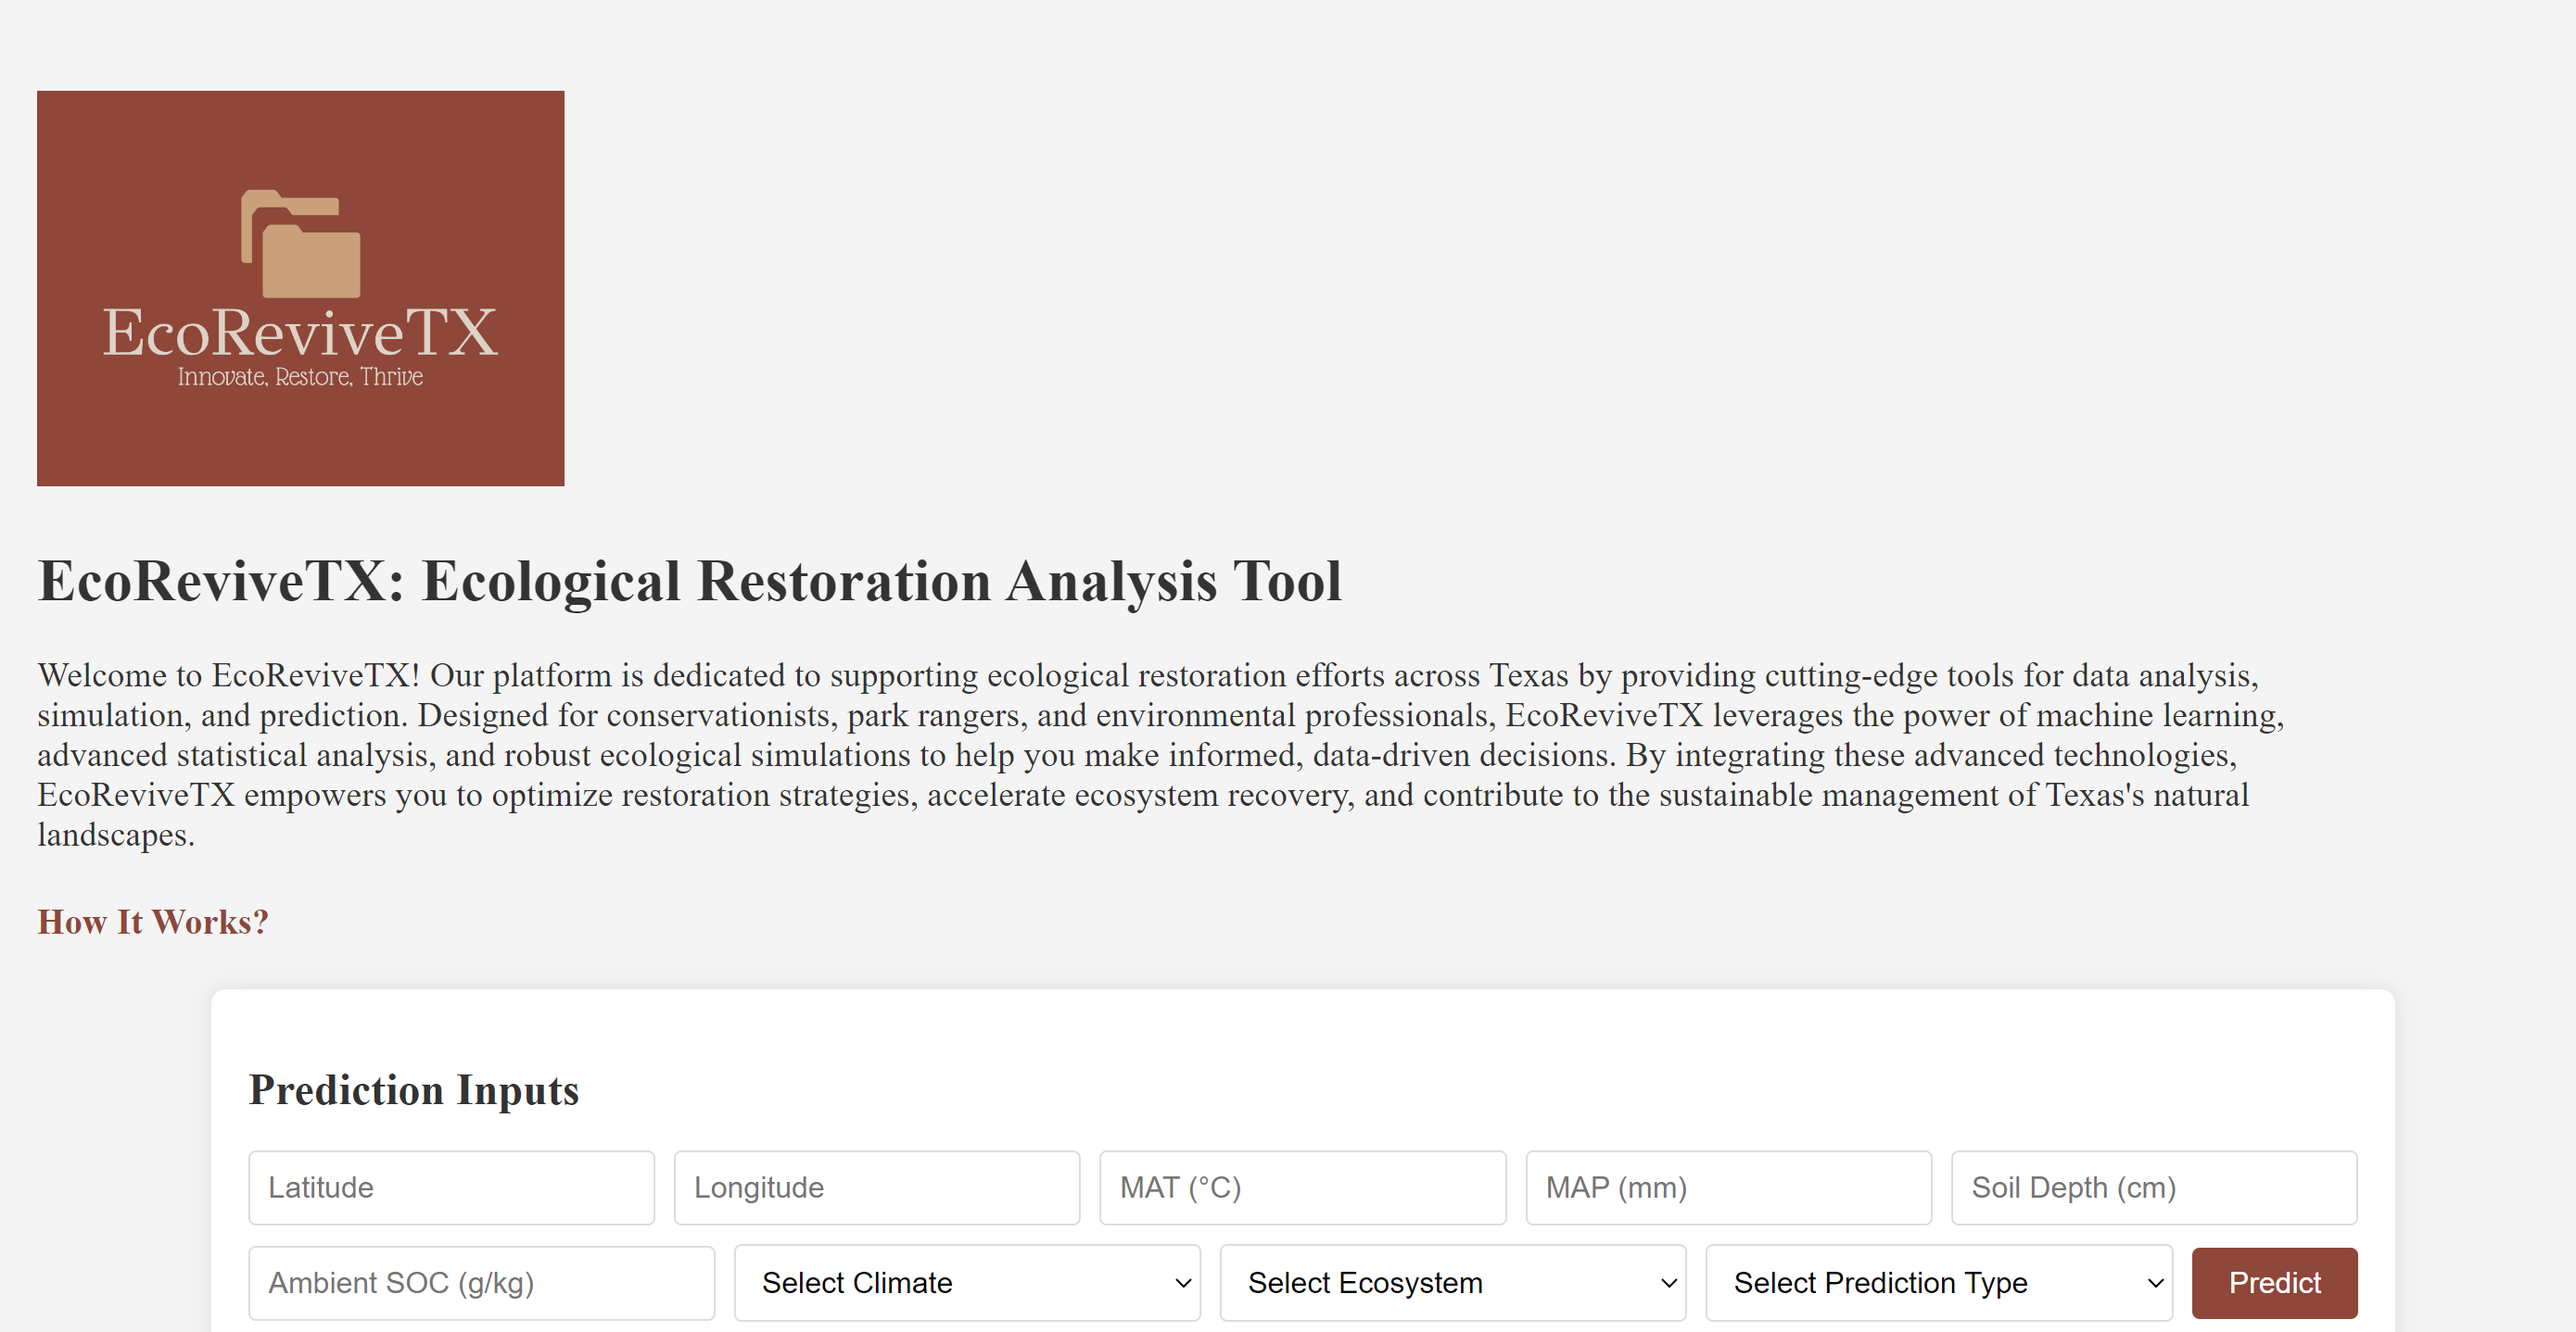
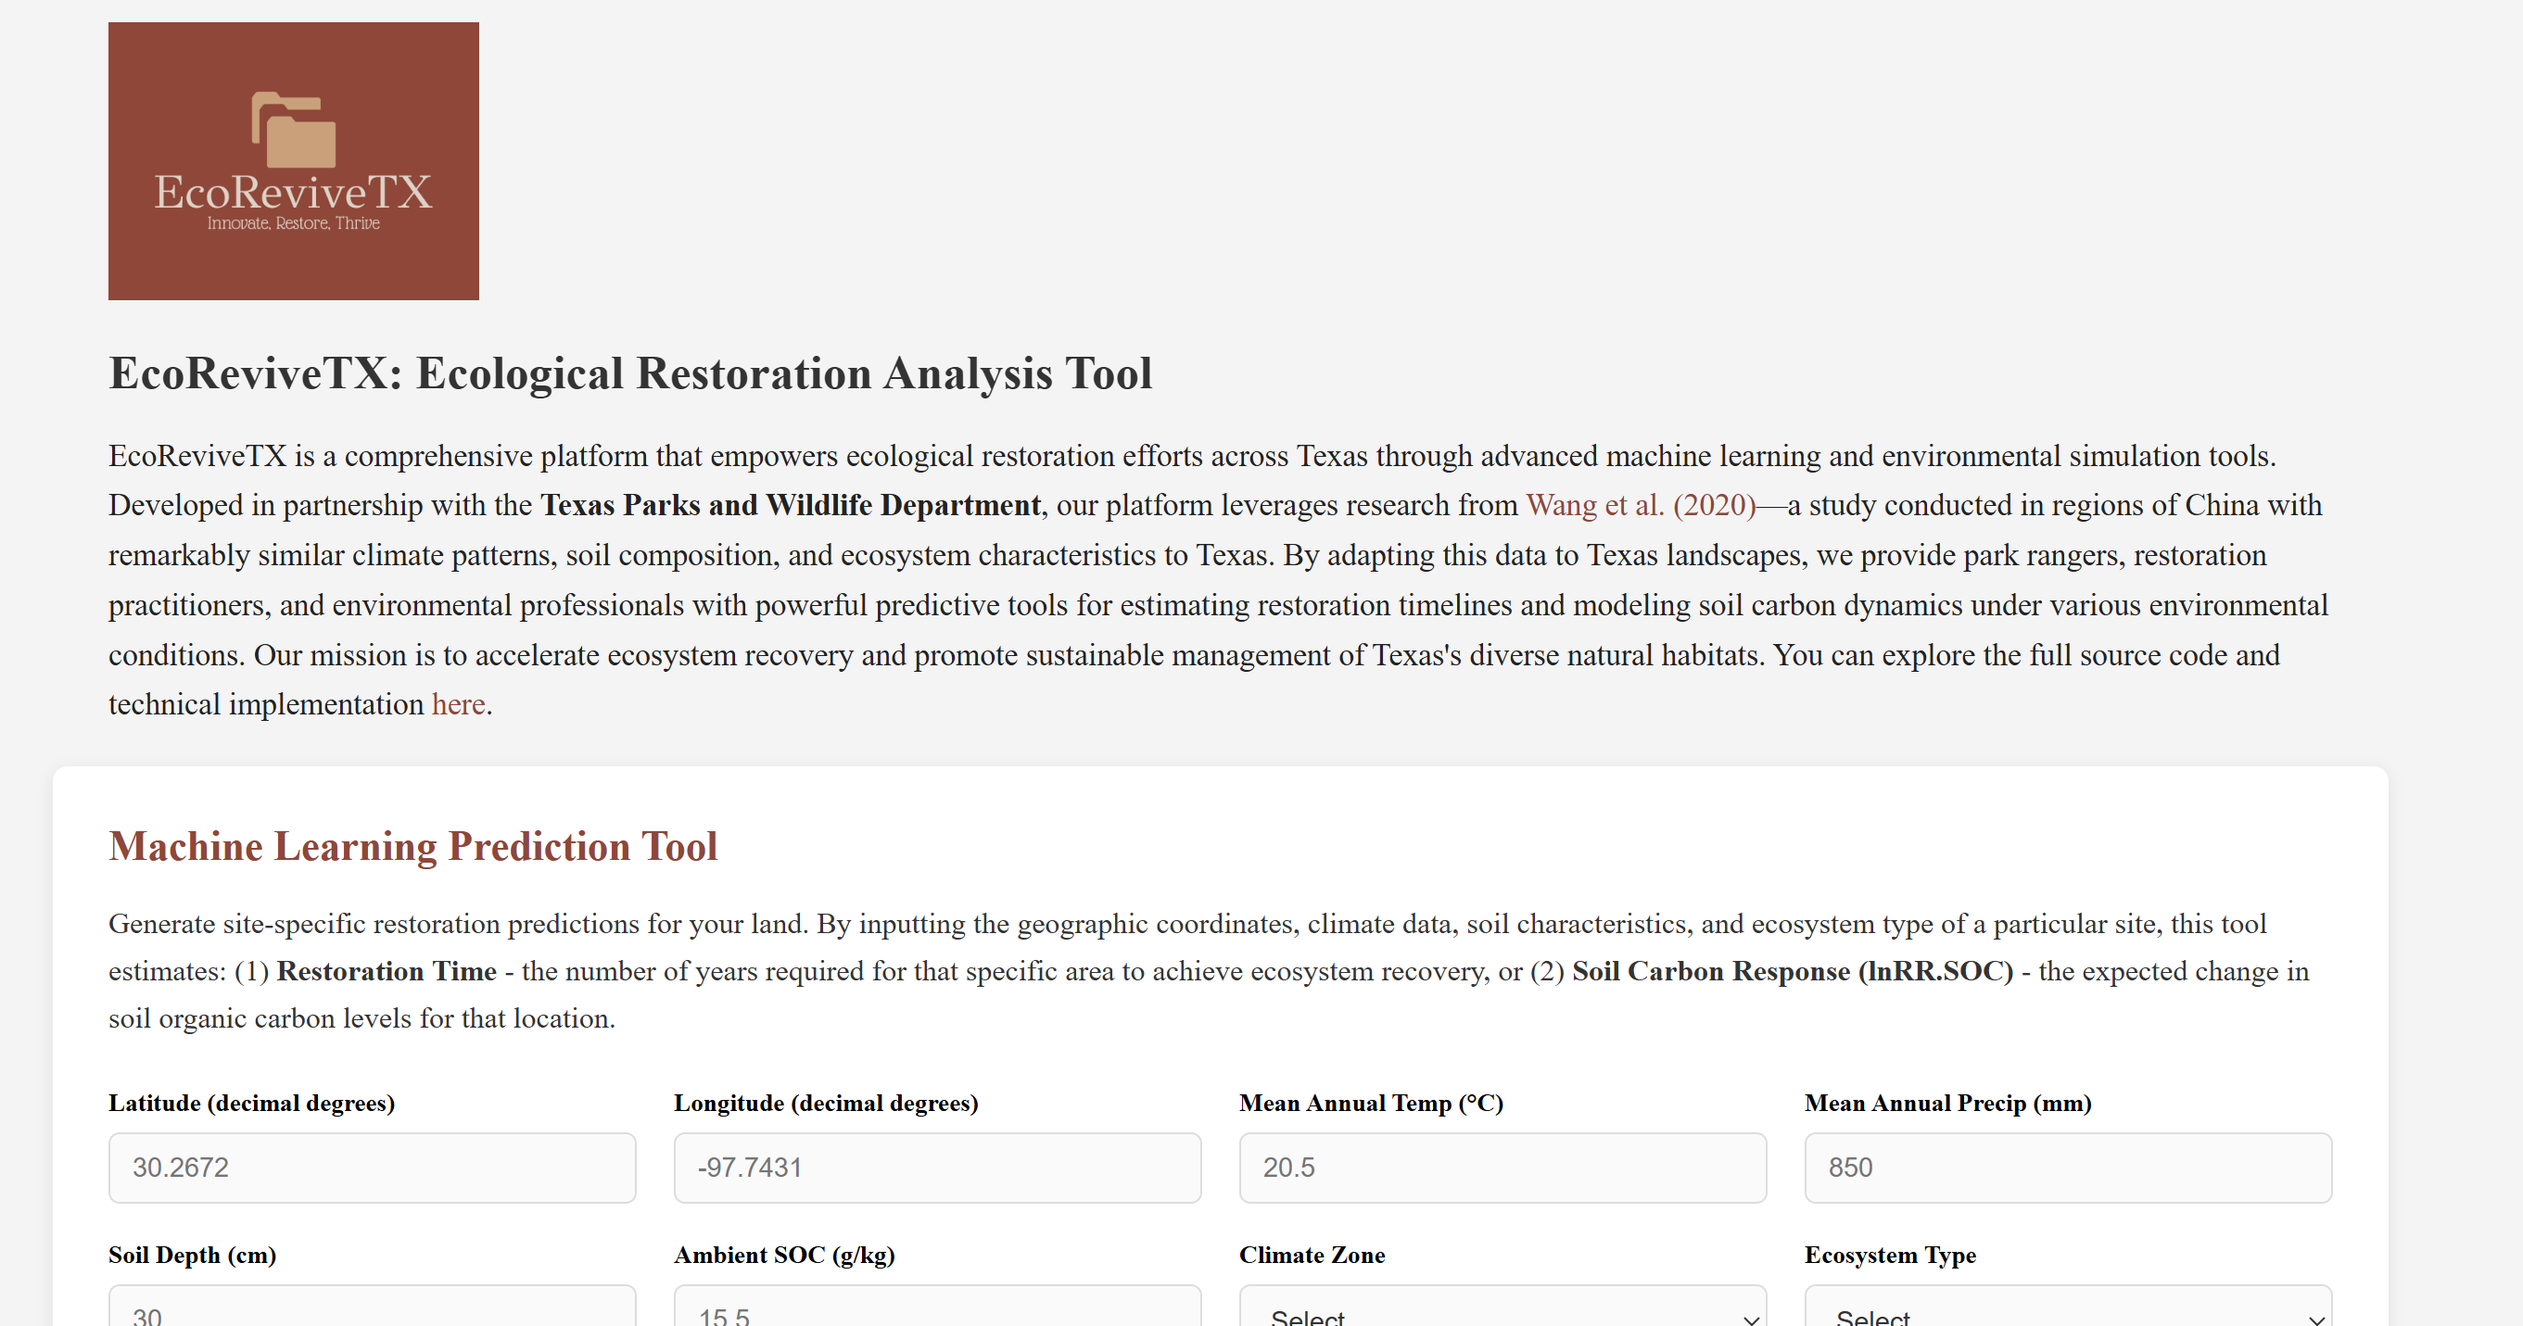
small changes

diff --git a/templates/index.html b/templates/index.html
@@ -149,6 +149,7 @@
             // Handle prediction form submission
             $('#prediction-form').submit(function(event) {
                 event.preventDefault();
+                const predictionType = $('#pred-type').val();
                 $('#prediction-result').show();
                 $('#prediction-result .result-content').html('<p class="loading">Generating prediction...</p>');
                 
@@ -169,6 +170,9 @@
 
                         if (response.error) {
                             $('#prediction-result .result-content').html('<p class="error">Error: ' + response.error + '</p>');
+                        } else if (typeof response.prediction === 'number') {
+                            let unit = predictionType === 'time' ? ' years' : ' lnRR.SOC';
+                            $('#prediction-result .result-content').html('<p class="result-value">' + response.prediction.toFixed(2) + unit + '</p>');
                         } else {
                             $('#prediction-result .result-content').html('<p class="result-value">' + response.prediction + '</p>');
                         }

diff --git a/static/styles.css b/static/styles.css
@@ -74,7 +74,7 @@ a:hover {
 .input-wrapper {
     flex: 1;
     min-width: 180px;
-    max-width: calc(25% - 15px);
+    max-width: calc(33.33% - 15px);
     display: flex;
     flex-direction: column;
 }

diff --git a/README.md b/README.md
@@ -2,11 +2,9 @@
 
 ## Overview
 
-This website is currently being re-branded.
+**EcoReviveTX** is a web application that predicts ecological restoration outcomes for Texas landscapes. The platform uses machine learning models trained on ecological restoration data (adapted from [Wang et al. (2020)](https://datadryad.org/stash/dataset/doi:10.5061/dryad.msbcc2g0g)) to estimate restoration timelines and soil carbon dynamics based on site-specific environmental conditions. Users can input geographic coordinates, climate data, and soil characteristics to predict either (1) restoration time in years, or (2) soil organic carbon response (lnRR.SOC). The application includes C-based ecosystem simulations for scenario analysis. Built with Flask (Python), jQuery, and C, with deployment on Vercel.
 
-**EcoReviveTX** is a full-stack web application designed to support ecological restoration efforts in Texas. It leverages AI & machine learning, statistical analysis, data visualization with MATLAB, and C-based simulations to provide actionable insights for park rangers and environmental professionals. The platform offers tools for predicting restoration timelines and soil health metrics, as well as for simulating various environmental scenarios. By integrating these technologies, EcoReviveTX aids in accelerating ecosystem recovery and managing Texas's natural landscapes more sustainably. The platform utilizes a modern tech stack, including jQuery, Flask, C, MATLAB, and machine learning (Python), to create a powerful tool for ecological restoration. Currently in efforts to collaborate with the Texas Parks and Wildlife Department.
-
-Explore the website [here](https://ecorevivetx.onrender.com/)
+Explore the website [here](https://ecorevive-tx.vercel.app/)
 
 ![EcoReviveTXScreenshot](static/ecorevivetxscreenshot.png)
 
@@ -17,12 +15,14 @@ Explore the website [here](https://ecorevivetx.onrender.com/)
 * **Machine Learning:** Python
 * **Ecosystem Modeling:** C
 * **Data Visualization:** MATLAB
-* **Deployment:** Render
+* **Deployment:** Vercel
 
-## Features & Project Highlights
+## Features
 
-* **Prediction Tool:** Implements multivariate machine learning models (Gradient Boosting, Linear Regression, Random Forest, Support Vector Regression) built with Python to predict restoration timelines and soil health metrics. The tool processes inputs such as latitude, longitude, mean annual temperature (MAT), mean annual precipitation (MAP), soil depth, and ambient soil organic carbon (SOC) to enable data-driven restoration strategies.
-* **Simulation Tool:**  Offers C-based simulations for forecasting restoration outcomes. Users input environmental variables like MAT, MAP, soil depth, climate type, and ecosystem type to analyze potential restoration scenarios. The simulations include Monte Carlo methods for enhanced precision in uncertain conditions.
-* **MATLAB-Driven Data Visualizations:** Provides detailed and actionable graphs to highlight key environmental trends. These visualizations were adapted from a study originally focused on ecological restoration in China, tailored specifically to the environmental conditions of Texas. The similarities in climate and ecosystem variables between the regions allowed for precise refinements, ensuring relevance and accuracy for Texas landscapes.
-* **Flask-Driven RESTful APIs:** Powers the platform’s back-end infrastructure, enabling communication between the prediction and simulation tools and the front end. Flask’s lightweight framework ensures scalable performance and efficient data handling.
-* **Dynamic Front-End with jQuery:** Leverages jQuery for efficient DOM manipulation, asynchronous API requests, and dynamic updates to simulation and prediction results. Enables real-time data rendering and user interaction without requiring full-page reloads.
+* **Machine Learning Prediction Tool:** Eight trained models (4 climate/ecosystem combinations × 2 prediction targets) using Random Forest, Gradient Boosting, Linear Regression, and SVR. The best-performing model for each category was selected based on R² score. Models take latitude, longitude, MAT (°C), MAP (mm), soil depth (cm), ambient SOC (g/kg), climate zone (subtropical/temperate), and ecosystem type (forest/non-forest) as inputs. Outputs restoration time (years) or soil carbon response (lnRR.SOC).
+
+* **C-Based Ecosystem Simulations:** Two simulation methods: (1) Basic deterministic model that calculates SOC using environmental variables, and (2) Monte Carlo simulation (1000 iterations) that introduces randomized variations in MAT and MAP to quantify uncertainty. Both simulations use a formula-based approach to predict SOC dynamics.
+
+* **Data Source:** Models trained on ecological restoration data from Chinese ecosystems with similar climate and soil characteristics to Texas, allowing transferability of restoration patterns to Texas landscapes.
+
+* **Architecture:** Flask REST API serves predictions and executes C simulation binaries. jQuery handles asynchronous form submissions and dynamic result display. Models are loaded at application startup and served via POST endpoints.
